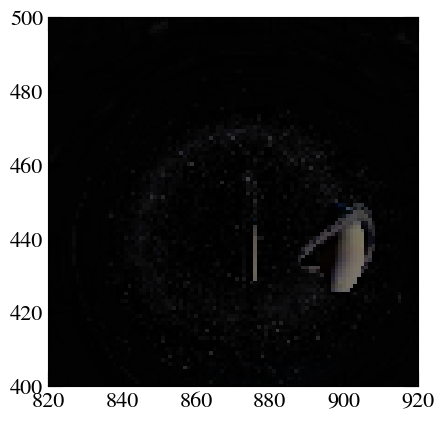
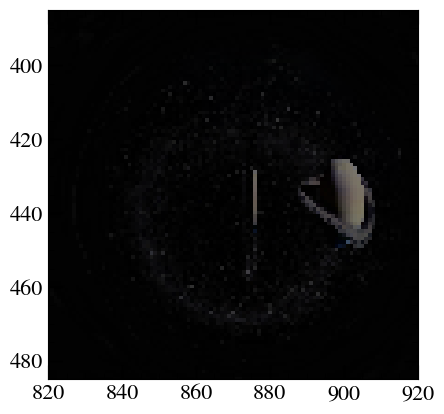
code cleanup

diff --git a/Submission/interpolate_map.py b/Submission/interpolate_map.py
@@ -1,46 +1,15 @@
 import numpy as np
 import matplotlib.pyplot as plt
 import pickle
-from scipy.interpolate import interp2d, griddata
+from scipy.interpolate import griddata
 from skimage import io
 from skimage.transform import warp
-from scipy import ndimage
-from PIL import Image
 import datetime
-import pdb
 
 
 def find_nearest_i(array, value):
     ind = (np.abs(array - value)).argmin()
     return ind
-
-
-def wrap_angle(angle, max_angle=2*np.pi, exclusive=True):
-    """
-    Wraps angles to the range [0, max_angle) (exclusive by
-    default, but can be inclusive of max_angle)
-
-    Parameters
-    ----------
-    angle : int, float, or array-like
-        The angle(s) to wrap
-    max_angle : int or float, optional
-        The maximum angle possible (default 2*pi)
-    exclusive : bool, optional
-        Whether to exclude the maximum angle (default True)
-
-    Returns
-    -------
-    wrapped_angle : int, float, or array_like
-        The wrapped angle(s)
-    """
-    if exclusive:
-        wrapped_angle = angle % max_angle
-    else:
-        max_angle_ind = np.where(angle == max_angle)[0]
-        wrapped_angle = angle % max_angle
-        wrapped_angle[max_angle_ind] = max_angle
-    return wrapped_angle
 
 
 def pixels_to_angles(xy):
@@ -74,136 +43,9 @@ def load_map_data(angle_file, map_file):
         ray_map = pickle.load(f)
     return angles, ray_map
 
-def celestial_data_sorter(ray_map):
-    """
-    Sorts elements of the ray_map tensor based of the sign of distance ell at
-    each point (that is, which celestial sphere the light ray originates from).
-    Eliminates (hopefully) numerical artifacts from cross-interpolation of two
-    rays from different celestial spheres which have similar phi & theta, but
-    opposite sign.
-
-    Parameters
-    ----------
-    ray_map : str
-        The output map
-
-    Returns
-    -------
-    ray_map : str
-        The output map (but sorted)
-    """
-    Ntheta = 250 # = ray_map[1]
-    Nphi   = 500 # = ray_map[2]
-
-    sorter_helper_friend = np.zeros((Nphi))
-    temp_position = np.zeros(3)
-    temp_array = np.zeros((1, Ntheta, 3))
-
-    Nminus, Nplus = 0, 0
-
-    for i in range(Nphi): # == Nphi
-        for j in range(Ntheta - 1):
-            # If the initial theta's sign is - and the next is +, transfer all positional data
-            if ray_map[i, j, 0] < ray_map[i, j+1, 0]:
-                # prototypical sorting shuffle - transfer of sign, radial vector components
-                temp_position[0:3] = ray_map[i, j, :]
-                ray_map[i, j, :]   = ray_map[i, j+1, :]
-                ray_map[i, j+1, :] = temp_position[0:3]
-            if ray_map[i, j, 0] < 0:
-                #print(ray_map[i, j, 0], end =" ")
-                Nminus += 1
-                sorter_helper_friend[i] += 1 # counts how many "pluses" there are - i.e. how many points are in the upper sphere
-
-    # I'm smart enough to know this can be optimized...I'm just not smart enough to know how
-    for i in range(Nphi - 1):
-        if sorter_helper_friend[i] < sorter_helper_friend[i+1]:
-            # prototypical sorting shuffle - transfer of sign, radial vector components
-            temp_array          = ray_map[i, :, :]
-            ray_map[i, :, :]    = ray_map[i+1, :, :]
-            ray_map[i+1, :, :]  = temp_array
-
-    N     = Nphi * Ntheta
-    Nplus = N - Nminus
-
-    ray_map_lower = []
-    ray_map_upper = []
-
-    for i in range(Nphi):
-        for j in range(Ntheta):
-            if ray_map[i, j, 0] < 0:
-                ray_map_lower.append(ray_map[i, j, 1:3])
-            else:
-                ray_map_upper.append(ray_map[i, j, 1:3])
-
-    ray_map_lower = np.array(ray_map_lower)
-    ray_map_upper = np.array(ray_map_upper)
-
-    return ray_map
-
-
-def create_map_interpolator(angles, ray_map):
-    """
-    Generate the interpolating function for theta and phi
-
-    Parameters
-    ----------
-    angles : array-like
-        The angles where the output map exist
-    ray_map : str
-        The output map
-
-    Returns
-    -------
-    interp_theta, interp_phi : function
-    """
-    # Load the angles
-    lsign, theta, phi = 2, angles['theta'], angles['phi']
-
-    #lsign[0] = 1 #upper sphere
-
-    # The sign of the final location of the ray
-    sign = ray_map[:, :, 0]
-
-    # Sort both the input angles on the camera sky and the output map
-    # by which celestial sphere they're on
-    upper_inds, lower_inds = np.where(sign > 0), np.where(sign < 0)
-    upper_phi, lower_phi = phi[upper_inds[0]], phi[lower_inds[0]]
-    upper_theta, lower_theta = theta[upper_inds[1]], theta[lower_inds[1]]
-    upper_ray_map = ray_map[upper_inds][:, 1:3]
-    lower_ray_map = ray_map[lower_inds][:, 1:3]
-
-    # Interpolate the map
-
-    #print(ray_map)
-    #print("ray_map shape: \t\t", np.shape(ray_map))
-
-    # ray_map_lower, ray_map_upper, = celestial_data_sorter(ray_map)
-    # pdb.set_trace()
-
-    #print(ray_map_lower, "\n\n", ray_map_upper, "\n\n", np.shape(ray_map_lower), "\n\n", np.shape(ray_map_upper))
-    # Arrays are looking as they should, for 250*500=125000 signs, we have shapes (4437, 2) for lower and (120563, 2) for upper
-
-    # lower_index = range(len(ray_map_lower))
-    # upper_index = range(len(ray_map_upper))
-    # th, ph = range(2), range(2)
-
-    interp_phi_upper = interp2d(upper_phi, upper_theta, upper_ray_map[:, 0])
-    interp_theta_upper = interp2d(upper_phi, upper_theta, upper_ray_map[:, 1])
-    interp_phi_lower = interp2d(lower_phi, lower_theta, lower_ray_map[:, 0])
-    interp_theta_lower = interp2d(lower_phi, lower_theta, lower_ray_map[:, 1])
-
-    # interp_angles_lower = RegularGridInterpolator((lower_index, th),
-    #                                         ray_map_lower[:])
-    #
-    # interp_angles_upper = RegularGridInterpolator((upper_index, ph),
-    #                                         ray_map_upper[:])
-
-    return {'upper': {'phi': interp_phi_upper, 'theta': interp_theta_upper},
-            'lower': {'phi': interp_phi_lower, 'theta': interp_theta_lower}}
-
 
 def wormhole_warp(xy, phi_cs, theta_cs, ray_map):
-    # first column is phi, second column is theta
+    # First column is phi, second column is theta
     im_angles = pixels_to_angles(xy)
     unique_phi = np.unique(im_angles[:, 0])
     unique_theta = np.unique(im_angles[:, 1])
@@ -269,7 +111,7 @@ if __name__ == '__main__':
     plt.close('all')
     fig, ax = plt.subplots(1, 1)
     ax.imshow(warped_image, origin='upper')
-    ax.set_xlim([820, 920])
-    ax.set_ylim([400, 500])
-    fig.savefig('images/warped_saturn.png', bbox_inches='tight')
+    # ax.set_xlim([820, 920])
+    # ax.set_ylim([485, 385])
+    # fig.savefig('images/warped_saturn.png', bbox_inches='tight')
     fig.show()

diff --git a/Submission/calculate_map.py b/Submission/calculate_map.py
@@ -232,6 +232,7 @@ if __name__ == '__main__':
     end = datetime.datetime.now()
     print('Ended at {}'.format(end.strftime('%Y-%m-%d %H:%M:%S')))
     print('Elapsed time: {}'.format(end - start))
+    
     # Wrap angles to the appropriate interval: [0, pi) for theta and
     # [0, 2*pi) for phi,
     ray_map[:, :, 1] = wrap_angle(ray_map[:, :, 1], np.pi)
